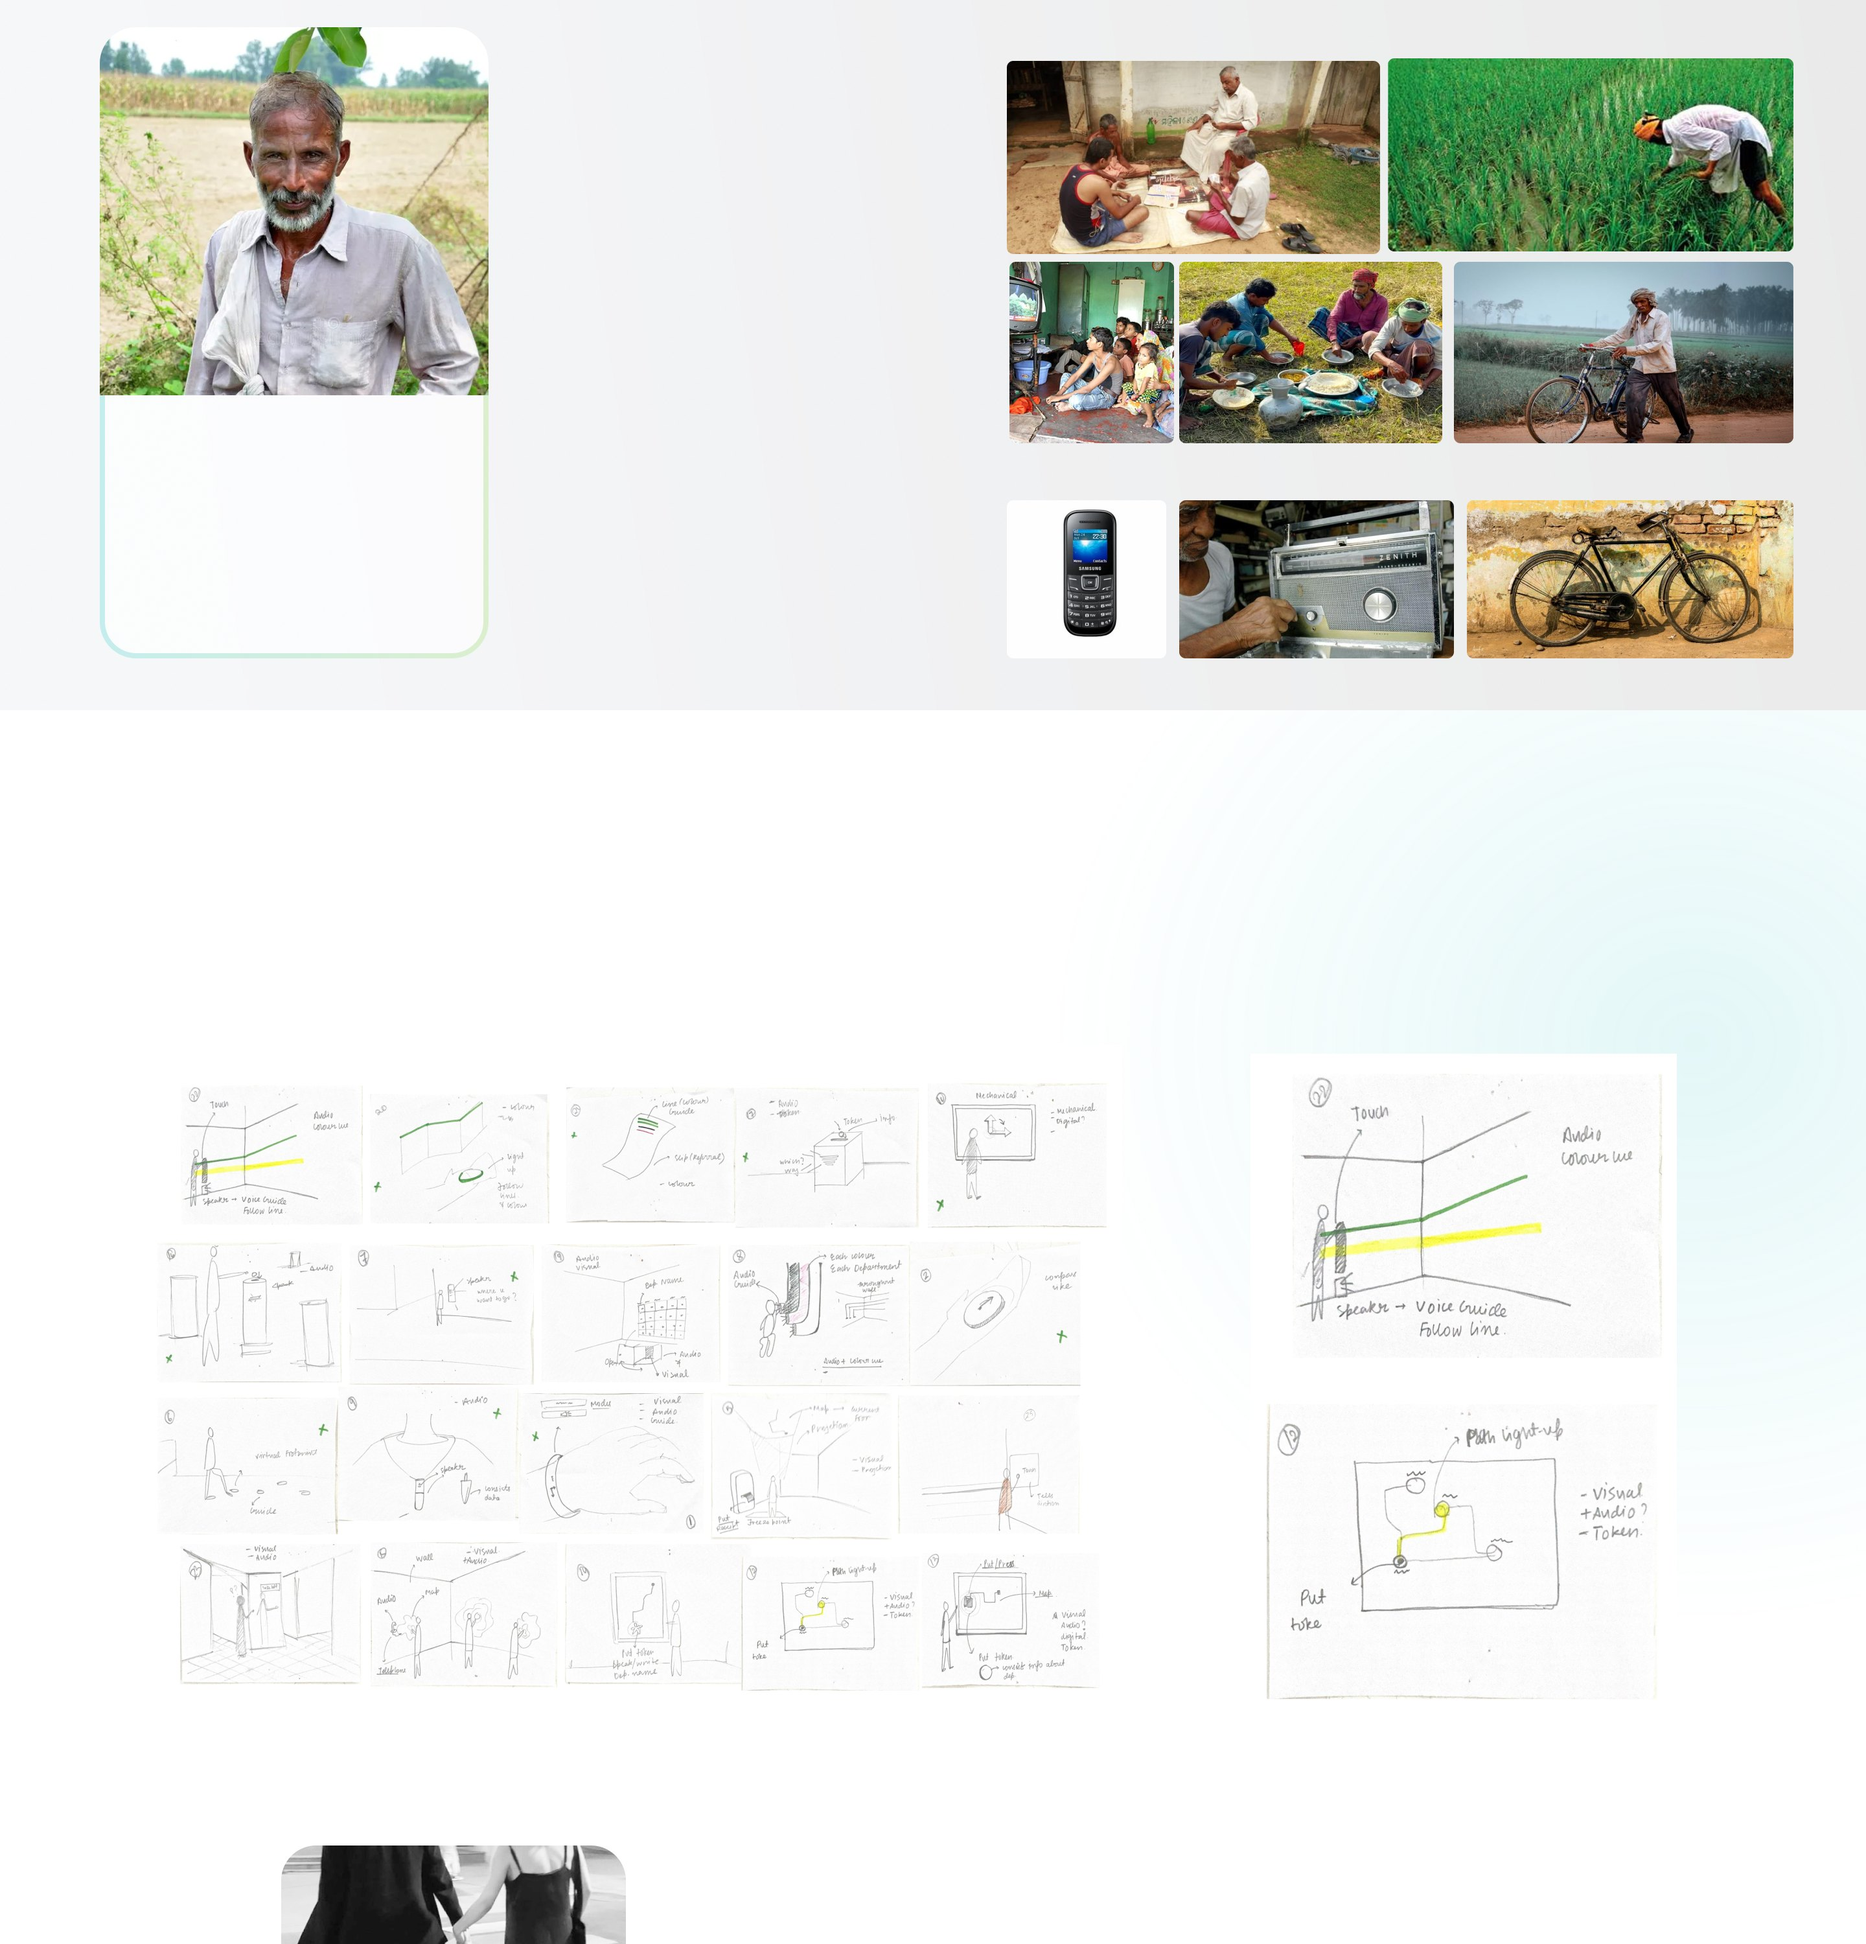
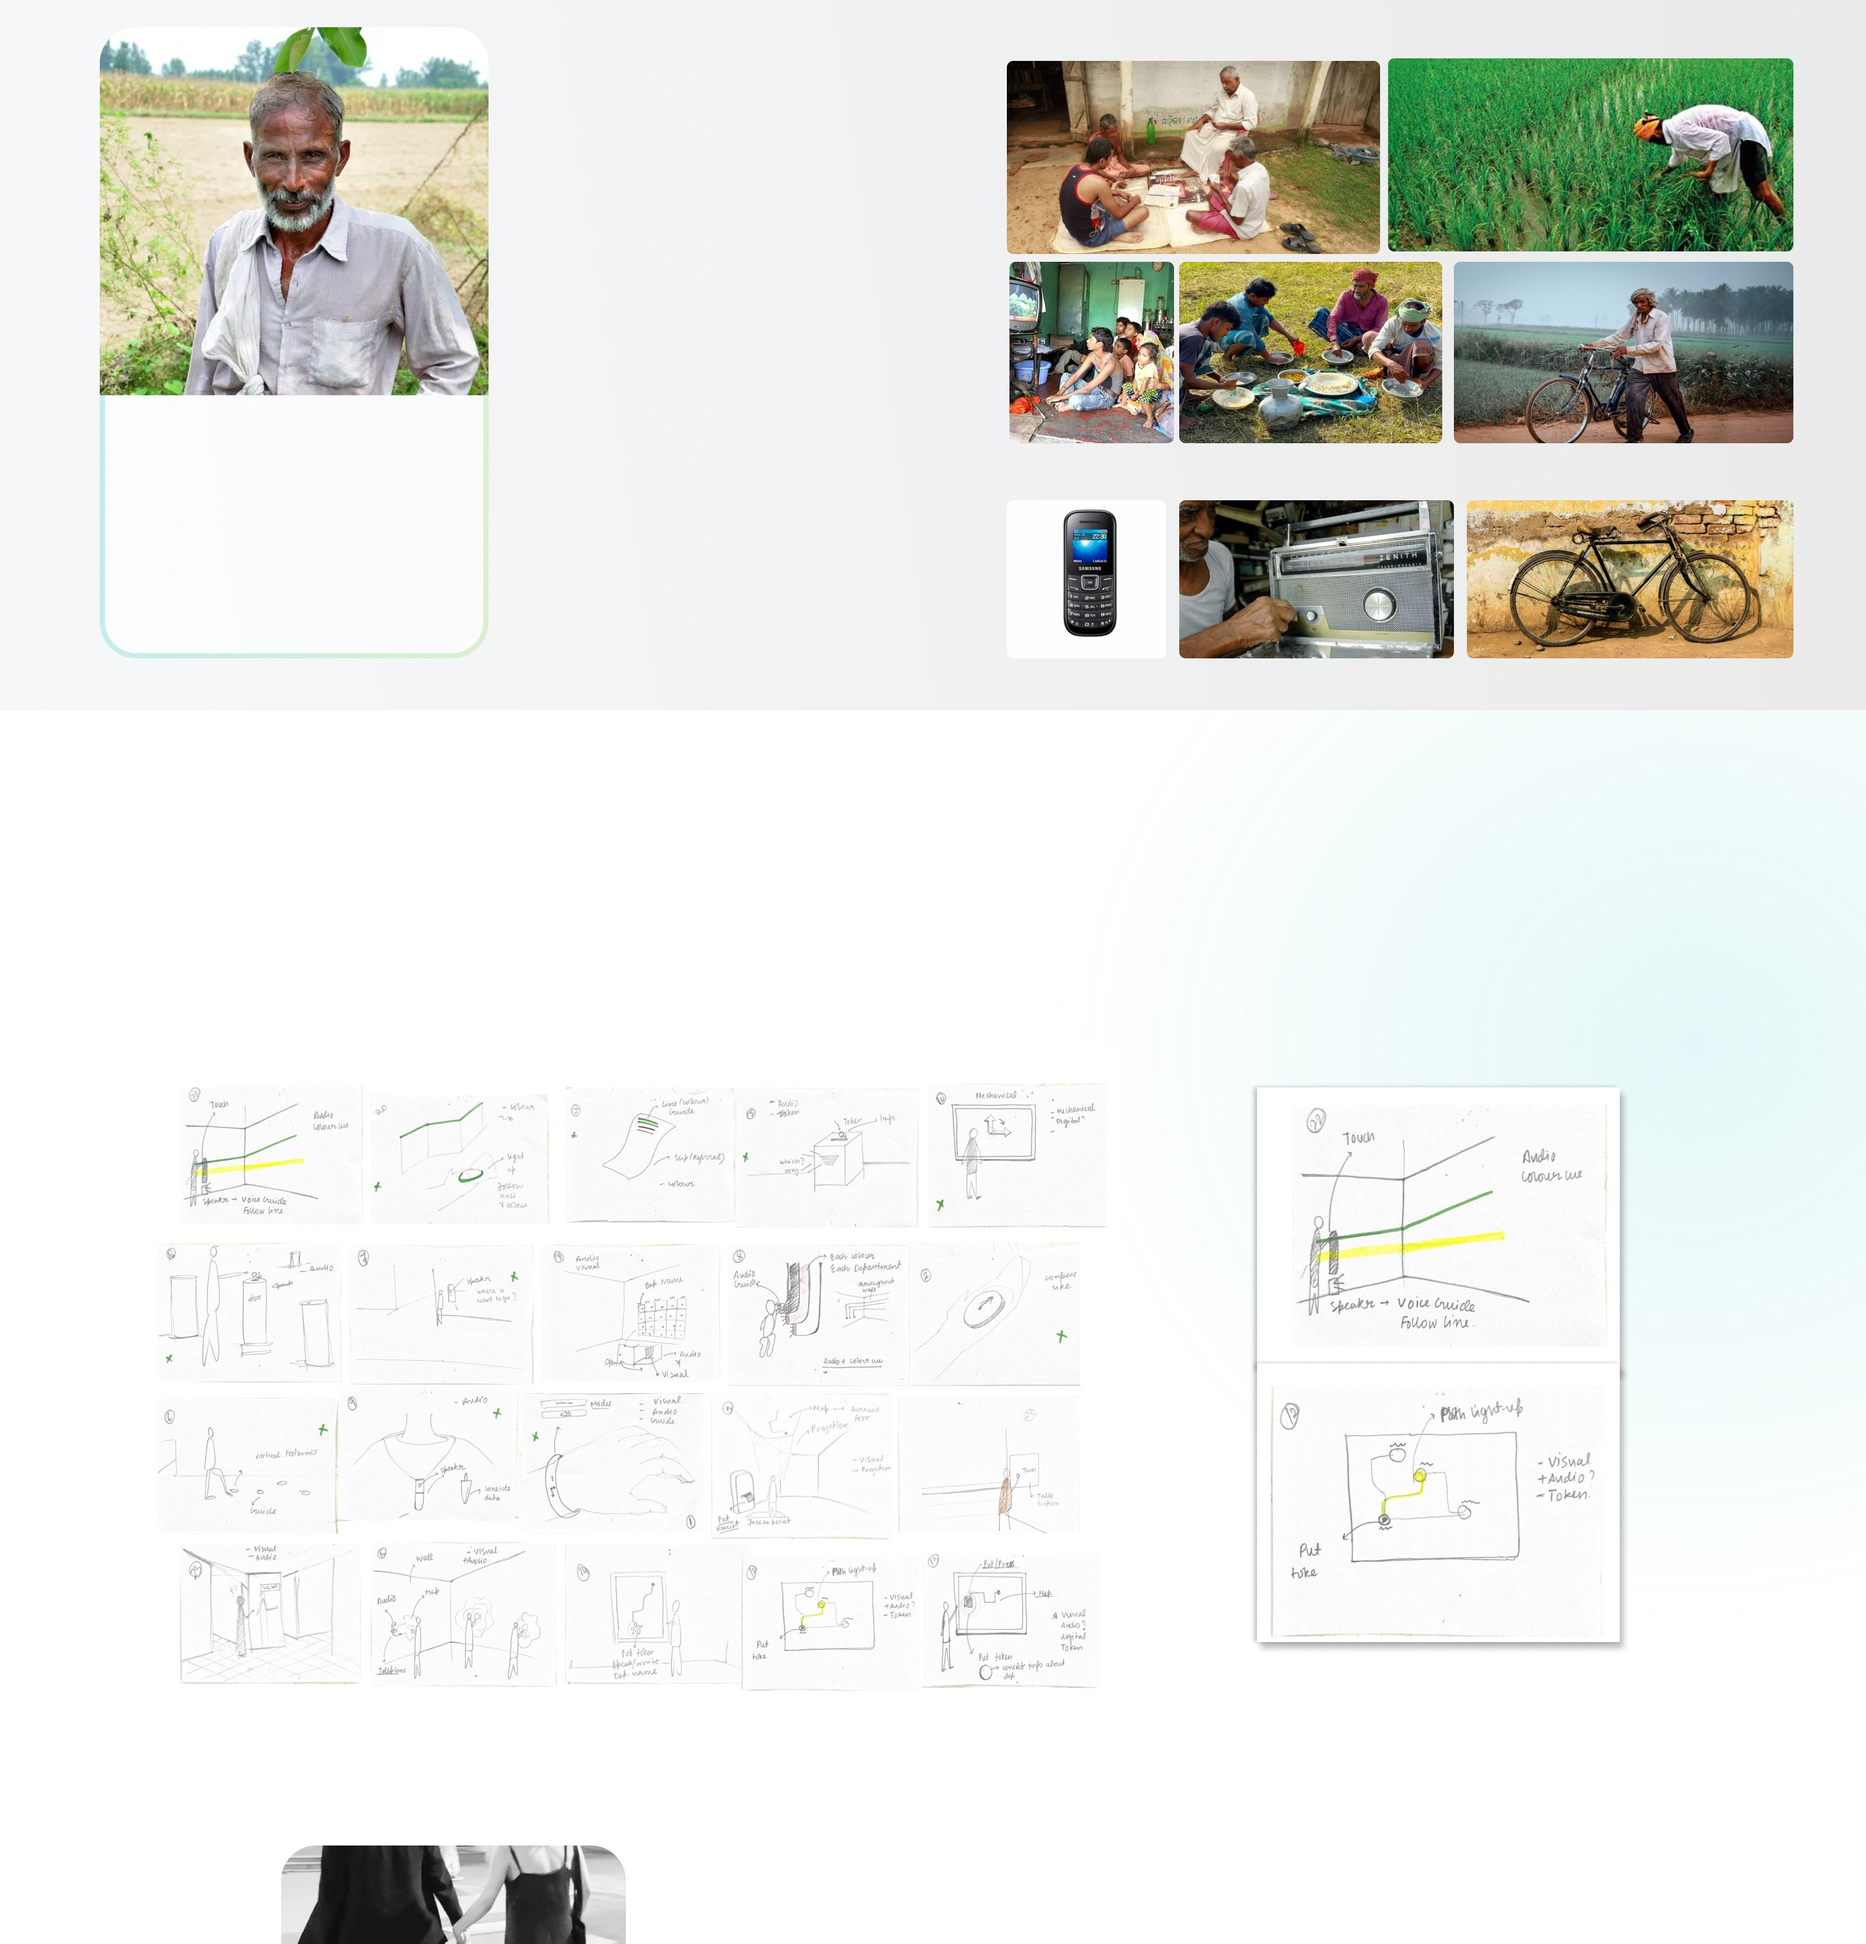
Disha: update from the latest Figma edits
Process strip descriptions, System Overview captions, Design Rationale label
colour and the Developing Phase sketches (tile t3) now match Desktop - 1.

diff --git a/disha.html b/disha.html
@@ -40,7 +40,7 @@ body{-webkit-font-smoothing:antialiased;overflow-x:hidden}
 .k14{font-family:-apple-system,BlinkMacSystemFont,"SF Pro Display","SF Pro Text","Inter",system-ui,sans-serif;font-size:18px;color:#2b2b2b;font-weight:500;line-height:1.193;}
 .k15{font-family:-apple-system,BlinkMacSystemFont,"SF Pro Display","SF Pro Text","Inter",system-ui,sans-serif;font-size:15px;color:#525252;line-height:21px;}
 .k16{font-family:-apple-system,BlinkMacSystemFont,"SF Pro Display","SF Pro Text","Inter",system-ui,sans-serif;font-size:24px;color:#525252;font-weight:500;line-height:1.193;}
-.k17{font-family:-apple-system,BlinkMacSystemFont,"SF Pro Display","SF Pro Text","Inter",system-ui,sans-serif;font-size:18px;color:#525252;font-weight:500;line-height:24px;}
+.k17{font-family:-apple-system,BlinkMacSystemFont,"SF Pro Display","SF Pro Text","Inter",system-ui,sans-serif;font-size:18px;color:rgba(82,82,82,0.73);font-weight:500;line-height:24px;}
 .k18{font-family:-apple-system,BlinkMacSystemFont,"SF Pro Display","SF Pro Text","Inter",system-ui,sans-serif;font-size:14px;color:#00797b;font-weight:500;line-height:1.193;}
 .k19{font-family:-apple-system,BlinkMacSystemFont,"SF Pro Display","SF Pro Text","Inter",system-ui,sans-serif;font-size:18px;color:#2b2b2b;line-height:1.193;}
 .k20{font-family:-apple-system,BlinkMacSystemFont,"SF Pro Display","SF Pro Text","Inter",system-ui,sans-serif;font-size:15px;color:rgba(71,71,71,0.77);font-weight:700;line-height:1.193;}
@@ -54,7 +54,7 @@ body{-webkit-font-smoothing:antialiased;overflow-x:hidden}
 .k28{font-family:-apple-system,BlinkMacSystemFont,"SF Pro Display","SF Pro Text","Inter",system-ui,sans-serif;font-size:19px;color:#1f1f1f;font-weight:500;line-height:1.193;}
 .k29{font-family:-apple-system,BlinkMacSystemFont,"SF Pro Display","SF Pro Text","Inter",system-ui,sans-serif;font-size:19px;color:#525252;line-height:1.193;}
 .k30{font-family:-apple-system,BlinkMacSystemFont,"SF Pro Display","SF Pro Text","Inter",system-ui,sans-serif;font-size:17px;color:#525252;line-height:1.193;}
-.k31{font-family:-apple-system,BlinkMacSystemFont,"SF Pro Display","SF Pro Text","Inter",system-ui,sans-serif;font-size:18px;color:#2b2b2b;font-weight:500;line-height:23px;}
+.k31{font-family:-apple-system,BlinkMacSystemFont,"SF Pro Display","SF Pro Text","Inter",system-ui,sans-serif;font-size:20px;color:#2b2b2b;font-weight:500;line-height:23px;}
 .k32{font-family:-apple-system,BlinkMacSystemFont,"SF Pro Display","SF Pro Text","Inter",system-ui,sans-serif;font-size:15px;color:#525252;line-height:23px;}
 .k33{font-family:-apple-system,BlinkMacSystemFont,"SF Pro Display","SF Pro Text","Inter",system-ui,sans-serif;font-size:15px;color:#9a9a9a;line-height:20px;}
 .k34{font-family:-apple-system,BlinkMacSystemFont,"SF Pro Display","SF Pro Text","Inter",system-ui,sans-serif;font-size:15px;color:#2b2b2b;font-weight:500;line-height:20px;}
@@ -78,13 +78,13 @@ body{-webkit-font-smoothing:antialiased;overflow-x:hidden}
 
 <div class="cv" id="cv">
 <div class="canvas" id="canvas">
-<img class="tile" src="images/disha-figma/t0.jpg?v=1103" style="top:0px;height:1500px" alt="Disha, a wall-mounted wayfinding kiosk with a colour-coded ceiling path">
-<img class="tile" src="images/disha-figma/t1.jpg?v=1103" style="top:1500px;height:1500px" alt="">
-<img class="tile" src="images/disha-figma/t2.jpg?v=1103" style="top:3000px;height:1500px" alt="" loading="lazy">
-<img class="tile" src="images/disha-figma/t3.jpg?v=1103" style="top:4500px;height:1500px" alt="" loading="lazy">
-<img class="tile" src="images/disha-figma/t4.jpg?v=1103" style="top:6000px;height:1500px" alt="" loading="lazy">
-<img class="tile" src="images/disha-figma/t5.jpg?v=1103" style="top:7500px;height:1500px" alt="" loading="lazy">
-<img class="tile" src="images/disha-figma/t6.jpg?v=1103" style="top:9000px;height:1500px" alt="" loading="lazy">
+<img class="tile" src="images/disha-figma/t0.jpg?v=1103b" style="top:0px;height:1500px" alt="Disha, a wall-mounted wayfinding kiosk with a colour-coded ceiling path">
+<img class="tile" src="images/disha-figma/t1.jpg?v=1103b" style="top:1500px;height:1500px" alt="">
+<img class="tile" src="images/disha-figma/t2.jpg?v=1103b" style="top:3000px;height:1500px" alt="" loading="lazy">
+<img class="tile" src="images/disha-figma/t3.jpg?v=1103b" style="top:4500px;height:1500px" alt="" loading="lazy">
+<img class="tile" src="images/disha-figma/t4.jpg?v=1103b" style="top:6000px;height:1500px" alt="" loading="lazy">
+<img class="tile" src="images/disha-figma/t5.jpg?v=1103b" style="top:7500px;height:1500px" alt="" loading="lazy">
+<img class="tile" src="images/disha-figma/t6.jpg?v=1103b" style="top:9000px;height:1500px" alt="" loading="lazy">
 <p class="t nw" data-id="3:8" style="left:185px;top:227px;width:340px;"><span class="k0">DISHA</span></p>
 <p class="t" data-id="9:5" style="left:192px;top:370px;width:433px;"><span class="k1">A hospital wayfinding system for first-time rural visitors in Indian public hospitals.</span></p>
 <p class="t nw" data-id="14:2" style="left:77px;top:714px;width:45px;"><span class="k3">Team</span></p>
@@ -120,21 +120,21 @@ Ask a stranger, follow another patient, find a security guard, or give up</span>
 <p class="t nw" data-id="46:14" style="left:616px;top:2010px;width:77px;"><span class="k8">Ideation</span></p>
 <p class="t nw" data-id="46:19" style="left:860px;top:2010px;width:111px;"><span class="k8">Prototyping</span></p>
 <p class="t nw" data-id="46:24" style="left:1103px;top:2010px;width:69px;"><span class="k8">Testing</span></p>
-<p class="t nw" data-id="46:6" style="left:97px;top:2070px;width:194px;"><span class="k9">Field visit, AIIMS Mangalagiri
-First-time visitor interviews
-Standards and benchmarking</span></p>
-<p class="t nw" data-id="46:11" style="left:341px;top:2070px;width:174px;"><span class="k9">Affinity mapping
-Three insights
-Fears to design responses</span></p>
-<p class="t nw" data-id="46:16" style="left:584px;top:2070px;width:160px;"><span class="k9">Three directions
-Colour bridge chosen
-Colour system and rules</span></p>
-<p class="t nw" data-id="46:21" style="left:828px;top:2070px;width:169px;"><span class="k9">ESP32 + NFC card reader
-Kiosk UI, 10+ iterations
-TFT → laptop → iPad</span></p>
-<p class="t nw" data-id="46:26" style="left:1071px;top:2070px;width:194px;"><span class="k9">Thread test, 3 staff
-Prototype test, 3 participants
-Wall unit, appearance model</span></p>
+<p class="t nw" data-id="46:6" style="left:97px;top:2070px;width:151px;"><span class="k9">Field research
+User research
+Existing systems study</span></p>
+<p class="t nw" data-id="46:11" style="left:341px;top:2070px;width:138px;"><span class="k9">Research analysis
+Key insights
+Design opportunities</span></p>
+<p class="t nw" data-id="46:16" style="left:584px;top:2070px;width:185px;"><span class="k9">Concept exploration
+Concept selection
+Colour system development</span></p>
+<p class="t nw" data-id="46:21" style="left:828px;top:2070px;width:149px;"><span class="k9">Technical prototyping
+Interface development
+Form development</span></p>
+<p class="t nw" data-id="46:26" style="left:1071px;top:2070px;width:121px;"><span class="k9">User testing
+System evaluation
+Design refinement</span></p>
 <p class="t nw" data-id="20:2" style="left:77px;top:2208px;width:230px;"><span class="k5">Discovery Phase</span></p>
 <p class="t" data-id="20:3" style="left:91px;top:2438px;width:778px;"><span class="k6">Visitors constantly asking security guards for directions.</span></p>
 <p class="t" data-id="20:4" style="left:913px;top:2438px;width:368px;"><span class="k6">Floor directories list departments and room numbers but offer no navigational flow.</span></p>
@@ -202,9 +202,11 @@ Wall unit, appearance model</span></p>
 <p class="t nw" data-id="108:75" style="left:77px;top:6244px;width:242px;"><span class="k5">System Overview</span></p>
 <p class="t" data-id="108:76" style="left:77px;top:6292px;width:1152px;"><span class="k30">A hospital wayfinding system that combines kiosk-based interaction with continuous colour-coded navigation.</span></p>
 <p class="t" data-id="108:79" style="left:77px;top:6704px;width:625px;"><span class="k31">01. Wall-mounted Kiosk 
-</span><span class="k32">Placed at key locations such as entrances, lobbies and lift areas. Visitors scan their hospital card to receive department information and route direction</span></p>
+</span></p>
 <p class="t" data-id="108:80" style="left:726px;top:6704px;width:569px;"><span class="k31">02. Colour-coded Ceiling Path 
-</span><span class="k32">A continuous colour-coded path guides visitors through corridors and junctions towards their destination.</span></p>
+</span></p>
+<p class="t" data-id="196:215" style="left:77px;top:6740px;width:625px;"><span class="k32">Placed at key locations such as entrances, lobbies and lift areas. Visitors scan their hospital card to receive department information and route direction</span></p>
+<p class="t" data-id="196:217" style="left:729px;top:6740px;width:569px;"><span class="k32">A continuous colour-coded path guides visitors through corridors and junctions towards their destination.</span></p>
 <p class="t nw" data-id="111:88" style="left:77px;top:6853px;width:348px;"><span class="k5">How They Work Together</span></p>
 <p class="t nw" data-id="130:2" style="left:78.9px;top:7114.9px;width:117px;"><span class="k33">01</span><span class="k34">   Registration</span></p>
 <p class="t nw" data-id="130:3" style="left:384.3px;top:7114.9px;width:127px;"><span class="k33">02</span><span class="k34">   Scan at kiosk</span></p>
